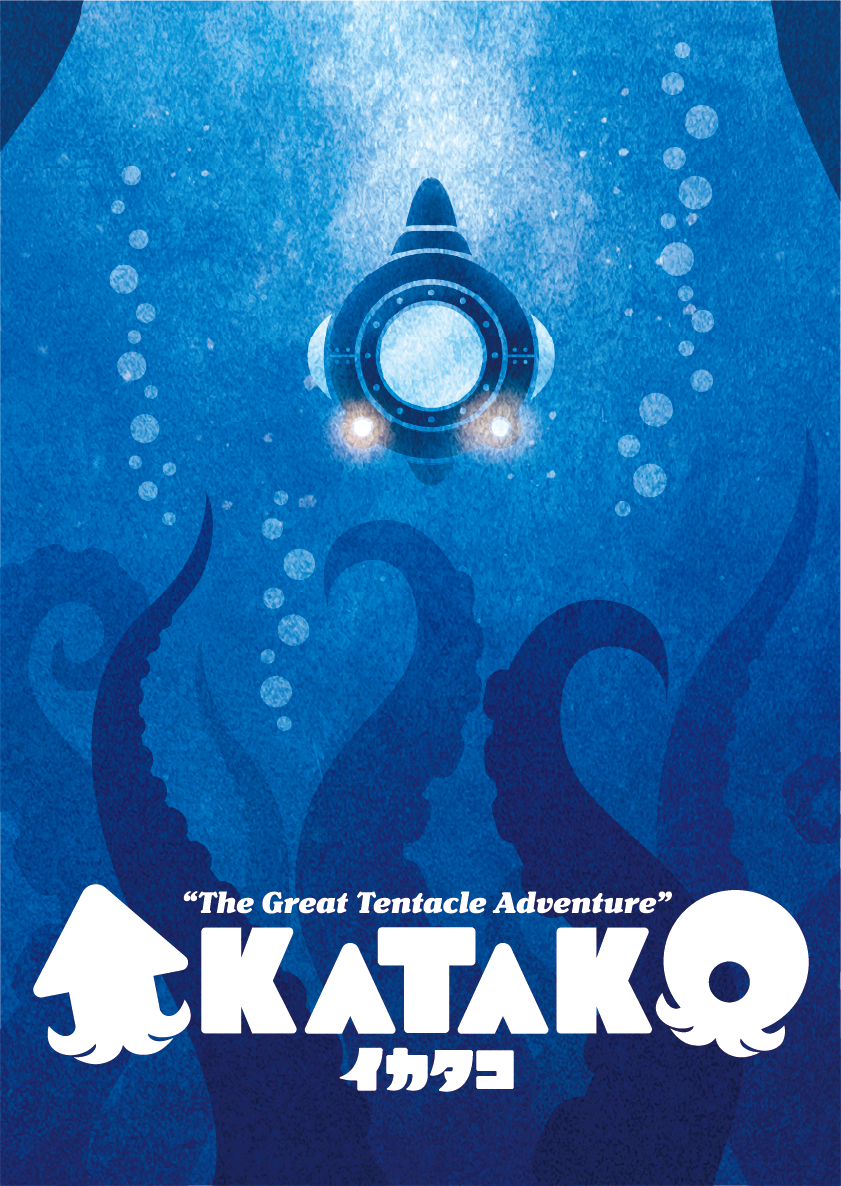
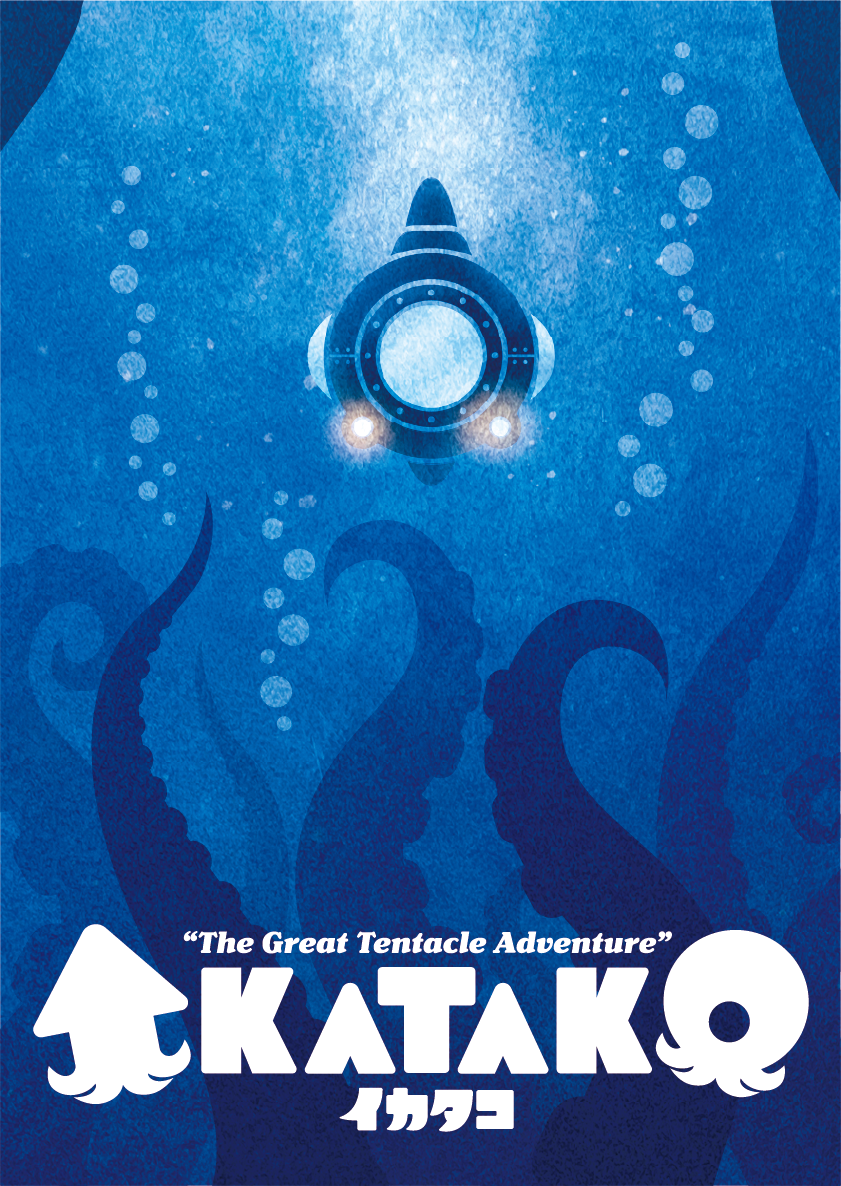
ページを組み立て直し

Changed region(s): [[0.0309, 0.7487, 0.9584, 0.9671]]

diff --git a/new/index.html b/new/index.html
@@ -418,7 +418,7 @@
     <ul class="row" id="boardrow">
         <li class="card" style="--c1:#fff5d7;--c2:#153e53"><input class="sr" type="radio" name="board" id="c-bibilu"><label class="c-face" for="c-bibilu"><img src="img/bibilu_bdg.png?v=9fa8f8d5" alt="ビビルの塔" loading="lazy"><span class="c-new"><span class="cap">NEW</span></span></label><div class="c-open"><img class="o-pkg" src="img/pkg_bibilu.webp?v=76008a40" alt="" loading="lazy"><div class="o-txt"><span class="o-logo" role="img" aria-label="ビビルの塔" style="--lg:url(img/logo_bibilu.png?v=01884218);aspect-ratio:1244/344;--lc:#fff5d7"></span><span class="pill" style="--pc:#fff5d7;--pt:#153e53">2〜4<span lang="ja">人</span><span lang="en"> players</span> / 10〜15<span lang="ja">分</span><span lang="en"> min</span> / 6<span lang="ja">歳から</span><span lang="en">+</span></span><p class="o-genre"><span lang="ja">ジャンル:</span><span lang="en">Genre: </span><span lang="ja">バッティング・ハンドマネジメント</span><span lang="en">Simultaneous play / Hand management</span></p><div class="o-btns"><a class="wb" href="games/bibilu/"><b class="ar" aria-hidden="true">▶</b><span lang="ja">見る</span><span lang="en">View</span></a><a class="wb" href="https://pandakinema.booth.pm/" target="_blank" rel="noopener"><b class="ar" aria-hidden="true">▶</b><span lang="ja">BOOTHで購入</span><span lang="en">Buy on BOOTH</span></a></div></div><label class="o-x" for="board-x" aria-label="とじる"></label></div></li>
         <li class="card" style="--c1:#664498;--c2:#fdd000"><input class="sr" type="radio" name="board" id="c-trico"><label class="c-face" for="c-trico"><img src="img/trico_bdg.png?v=f8773036" alt="TRICO!" loading="lazy"></label><div class="c-open"><img class="o-pkg" src="img/pkg_trico.webp?v=c0be06e2" alt="" loading="lazy"><div class="o-txt"><span class="o-logo" role="img" aria-label="TRICO!" style="--lg:url(img/logo_trico.png?v=ae9f7735);aspect-ratio:1021/382;--lc:#664498"></span><span class="pill" style="--pc:#664498;--pt:#fdd000">2〜3<span lang="ja">人</span><span lang="en"> players</span> / 10〜15<span lang="ja">分</span><span lang="en"> min</span> / 6<span lang="ja">歳から</span><span lang="en">+</span></span><p class="o-genre"><span lang="ja">ジャンル:</span><span lang="en">Genre: </span><span lang="ja">セットコレクション・バッティング</span><span lang="en">Set collection / Simultaneous play</span></p><div class="o-btns"><a class="wb" href="games/trico/"><b class="ar" aria-hidden="true">▶</b><span lang="ja">見る</span><span lang="en">View</span></a><a class="wb" href="https://pandakinema.booth.pm/" target="_blank" rel="noopener"><b class="ar" aria-hidden="true">▶</b><span lang="ja">BOOTHで購入</span><span lang="en">Buy on BOOTH</span></a></div></div><label class="o-x" for="board-x" aria-label="とじる"></label></div></li>
-        <li class="card" style="--c1:#ffffff;--c2:#0073bd"><input class="sr" type="radio" name="board" id="c-ikatako"><label class="c-face" for="c-ikatako"><img src="img/ikatako_bdg.png?v=b1512469" alt="イカタコ" loading="lazy"></label><div class="c-open"><img class="o-pkg" src="img/pkg_ikatako.webp?v=09232251" alt="" loading="lazy"><div class="o-txt"><span class="o-logo" role="img" aria-label="イカタコ" style="--lg:url(img/logo_ikatako.png?v=02d95a4c);aspect-ratio:1270/340;--lc:#ffffff"></span><span class="pill" style="--pc:#ffffff;--pt:#0073bd">1〜6<span lang="ja">人</span><span lang="en"> players</span> / 5〜15<span lang="ja">分</span><span lang="en"> min</span> / 8<span lang="ja">歳から</span><span lang="en">+</span></span><p class="o-genre"><span lang="ja">ジャンル:</span><span lang="en">Genre: </span><span lang="ja">リアクション・反射神経</span><span lang="en">Reaction / Reflexes</span></p><div class="o-btns"><a class="wb" href="https://gamemarket.jp/game/186696" target="_blank" rel="noopener"><b class="ar" aria-hidden="true">▶</b><span lang="ja">見る</span><span lang="en">View</span></a><a class="wb" href="https://pandakinema.booth.pm/" target="_blank" rel="noopener"><b class="ar" aria-hidden="true">▶</b><span lang="ja">BOOTHで購入</span><span lang="en">Buy on BOOTH</span></a></div></div><label class="o-x" for="board-x" aria-label="とじる"></label></div></li>
+        <li class="card" style="--c1:#ffffff;--c2:#0073bd"><input class="sr" type="radio" name="board" id="c-ikatako"><label class="c-face" for="c-ikatako"><img src="img/ikatako_bdg.png?v=bfbb205c" alt="イカタコ" loading="lazy"></label><div class="c-open"><img class="o-pkg" src="img/pkg_ikatako.webp?v=09232251" alt="" loading="lazy"><div class="o-txt"><span class="o-logo" role="img" aria-label="イカタコ" style="--lg:url(img/logo_ikatako.png?v=02d95a4c);aspect-ratio:1270/340;--lc:#ffffff"></span><span class="pill" style="--pc:#ffffff;--pt:#0073bd">1〜6<span lang="ja">人</span><span lang="en"> players</span> / 5〜15<span lang="ja">分</span><span lang="en"> min</span> / 8<span lang="ja">歳から</span><span lang="en">+</span></span><p class="o-genre"><span lang="ja">ジャンル:</span><span lang="en">Genre: </span><span lang="ja">リアクション・反射神経</span><span lang="en">Reaction / Reflexes</span></p><div class="o-btns"><a class="wb" href="https://gamemarket.jp/game/186696" target="_blank" rel="noopener"><b class="ar" aria-hidden="true">▶</b><span lang="ja">見る</span><span lang="en">View</span></a><a class="wb" href="https://pandakinema.booth.pm/" target="_blank" rel="noopener"><b class="ar" aria-hidden="true">▶</b><span lang="ja">BOOTHで購入</span><span lang="en">Buy on BOOTH</span></a></div></div><label class="o-x" for="board-x" aria-label="とじる"></label></div></li>
         <li class="card" style="--c1:#f19ebc;--c2:#39278b"><input class="sr" type="radio" name="board" id="c-moko"><label class="c-face" for="c-moko"><img src="img/mocochaka_bdg.png?v=5e4e8348" alt="モコチャカ" loading="lazy"></label><div class="c-open"><img class="o-pkg" src="img/pkg_moko.webp?v=bd55ef37" alt="" loading="lazy"><div class="o-txt"><span class="o-logo" role="img" aria-label="モコチャカ" style="--lg:url(img/logo_moko.png?v=62ab4b98);aspect-ratio:1282/240;--lc:#f19ebc"></span><span class="pill" style="--pc:#f19ebc;--pt:#39278b">2〜4<span lang="ja">人</span><span lang="en"> players</span> / 10〜15<span lang="ja">分</span><span lang="en"> min</span> / 6<span lang="ja">歳から</span><span lang="en">+</span></span><p class="o-genre"><span lang="ja">ジャンル:</span><span lang="en">Genre: </span><span lang="ja">パターン認識・アクション</span><span lang="en">Pattern recognition / Action</span></p><div class="o-btns"><a class="wb" href="https://gamemarket.jp/game/187698" target="_blank" rel="noopener"><b class="ar" aria-hidden="true">▶</b><span lang="ja">見る</span><span lang="en">View</span></a><a class="wb" href="https://pandakinema.booth.pm/" target="_blank" rel="noopener"><b class="ar" aria-hidden="true">▶</b><span lang="ja">BOOTHで購入</span><span lang="en">Buy on BOOTH</span></a></div></div><label class="o-x" for="board-x" aria-label="とじる"></label></div></li>
         <li class="card" style="--c1:#ffffff;--c2:#48b0e5"><input class="sr" type="radio" name="board" id="c-koikoi"><label class="c-face" for="c-koikoi"><img src="img/koikoi_bdg.png?v=7c92af56" alt="こいこいのぼり 真打" loading="lazy"></label><div class="c-open"><img class="o-pkg wide" src="img/mini_koikoi.webp?v=f2df86ff" alt="" loading="lazy"><div class="o-txt"><img class="o-logo" src="img/koikoilogo.png?v=bc68f6cc" alt="こいこいのぼり 真打" width="1009" height="522"><span class="pill" style="--pc:#ffffff;--pt:#48b0e5">2<span lang="ja">人</span><span lang="en"> players</span> / 5〜10<span lang="ja">分</span><span lang="en"> min</span> / 6<span lang="ja">歳から</span><span lang="en">+</span></span><p class="o-genre"><span lang="ja">ジャンル:</span><span lang="en">Genre: </span><span lang="ja">花札風セットコレクション</span><span lang="en">Hanafuda-style set collection</span></p><div class="o-btns"><span class="wb off" title="準備中"><b class="ar" aria-hidden="true">▶</b><span lang="ja">見る</span><span lang="en">View</span></span><a class="wb" href="https://pandakinema.booth.pm/" target="_blank" rel="noopener"><b class="ar" aria-hidden="true">▶</b><span lang="ja">BOOTHで購入</span><span lang="en">Buy on BOOTH</span></a></div></div><label class="o-x" for="board-x" aria-label="とじる"></label></div></li>
         <li class="card" style="--c1:#ffffff;--c2:#e60039"><input class="sr" type="radio" name="board" id="c-bash"><label class="c-face" for="c-bash"><img src="img/bash_bdg.png?v=d4d42c16" alt="BASH&amp;SMASH" loading="lazy"></label><div class="c-open"><img class="o-pkg wide" src="img/mini_bash.webp?v=2f9d2e36" alt="" loading="lazy"><div class="o-txt"><img class="o-logo" src="img/bashlogo_4C.png?v=05a46cc7" alt="BASH&amp;SMASH" width="620" height="490"><span class="pill" style="--pc:#ffffff;--pt:#e60039">2<span lang="ja">人</span><span lang="en"> players</span> / 5〜10<span lang="ja">分</span><span lang="en"> min</span> / 6<span lang="ja">歳から</span><span lang="en">+</span></span><p class="o-genre"><span lang="ja">ジャンル:</span><span lang="en">Genre: </span><span lang="ja">対戦格闘風読み合いゲーム</span><span lang="en">Fighting-game-style mind game</span></p><div class="o-btns"><span class="wb off" title="準備中"><b class="ar" aria-hidden="true">▶</b><span lang="ja">見る</span><span lang="en">View</span></span><a class="wb" href="https://pandakinema.booth.pm/" target="_blank" rel="noopener"><b class="ar" aria-hidden="true">▶</b><span lang="ja">BOOTHで購入</span><span lang="en">Buy on BOOTH</span></a></div></div><label class="o-x" for="board-x" aria-label="とじる"></label></div></li>

diff --git a/new/games/trico/index.html b/new/games/trico/index.html
@@ -786,7 +786,7 @@
     <h2 class="lineup-h" id="lineup-title"><span class="cap">CONTENTS</span></h2>
     <ul class="bg-row">
       <li><a class="bg-card" href="../bibilu/"><img src="../../img/bibilu_bdg.png?v=9fa8f8d5" alt="ビビルの塔" loading="lazy"><span class="bg-new"><span class="cap">NEW</span></span></a></li>
-      <li><a class="bg-card" href="https://gamemarket.jp/game/186696" target="_blank" rel="noopener"><img src="../../img/ikatako_bdg.png?v=b1512469" alt="イカタコ" loading="lazy"></a></li>
+      <li><a class="bg-card" href="https://gamemarket.jp/game/186696" target="_blank" rel="noopener"><img src="../../img/ikatako_bdg.png?v=bfbb205c" alt="イカタコ" loading="lazy"></a></li>
       <li><a class="bg-card" href="https://gamemarket.jp/game/187698" target="_blank" rel="noopener"><img src="../../img/mocochaka_bdg.png?v=5e4e8348" alt="モコチャカ" loading="lazy"></a></li>
       <li><a class="bg-card" href="../../#board"><img src="../../img/koikoi_bdg.png?v=7c92af56" alt="こいこいのぼり 真打" loading="lazy"></a></li>
       <li><a class="bg-card" href="../../#board"><img src="../../img/bash_bdg.png?v=d4d42c16" alt="BASH&amp;SMASH" loading="lazy"></a></li>

diff --git a/new/games/bibilu/index.html b/new/games/bibilu/index.html
@@ -725,7 +725,7 @@
     <h2 class="lineup-h" id="lineup-title"><span class="cap">CONTENTS</span></h2>
     <ul class="bg-row">
       <li><a class="bg-card" href="../trico/"><img src="../../img/trico_bdg.png?v=f8773036" alt="TRICO!" loading="lazy"></a></li>
-      <li><a class="bg-card" href="https://gamemarket.jp/game/186696" target="_blank" rel="noopener"><img src="../../img/ikatako_bdg.png?v=b1512469" alt="イカタコ" loading="lazy"></a></li>
+      <li><a class="bg-card" href="https://gamemarket.jp/game/186696" target="_blank" rel="noopener"><img src="../../img/ikatako_bdg.png?v=bfbb205c" alt="イカタコ" loading="lazy"></a></li>
       <li><a class="bg-card" href="https://gamemarket.jp/game/187698" target="_blank" rel="noopener"><img src="../../img/mocochaka_bdg.png?v=5e4e8348" alt="モコチャカ" loading="lazy"></a></li>
       <li><a class="bg-card" href="../../#board"><img src="../../img/koikoi_bdg.png?v=7c92af56" alt="こいこいのぼり 真打" loading="lazy"></a></li>
       <li><a class="bg-card" href="../../#board"><img src="../../img/bash_bdg.png?v=d4d42c16" alt="BASH&amp;SMASH" loading="lazy"></a></li>
